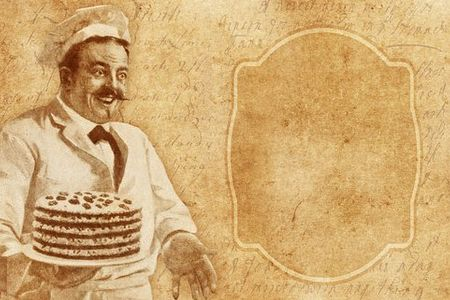
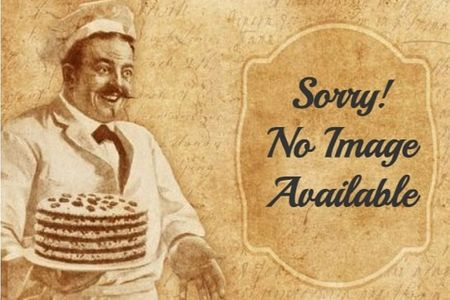
Made no image image

diff --git a/home/templates/home/delivery.html b/home/templates/home/delivery.html
@@ -10,37 +10,24 @@
 {% endblock %}
 
 {% block content %}
-    <div class="container delivery-container">
+    <div class="container mt-5">
         <div class="row">
-            <div class="col4 offset-4">
-                <div class="text-center" >
-                <h5>Sorry<br>
-                    No Image<br>
-                    Available</h5>     
-                </div>          
+            <div class="col-6">
+                <div id="delivery">
+                    <div class="row">
+                        <div class="col-6 offset-6 text-center">
+                            <h1 class="playball mt-5 ml-1 pt-4">
+                                <strong>
+                                Sorry!<br>
+                                No Image<br>
+                                Available</strong></h1>
+                        </div>                       
+                    </div>
+                </div>
             </div>
         </div>
     </div>
-        <!--title-->
-        <!--<div class="row">
-            <div class="col text-center mt-1">
-                <h2 class="playball">Delivery Charges</h2>
-                <hr class="gold50 mb-1">
-            </div>
-        </div>
-        <div class="row">
-            <div class="col">
-                <h3>All deliveries in the Dublin Greater city area are 10 Euro.<br>
-                   All deliveries on orders over 50 Euro are free.</h3>
-                  
-            </div>    
-        </div>-->
-        <div class="row">
-            <div class="col">
-                
-            </div>
-        </div>
-    </div>
+
 {% endblock %}
 
 {% block postloadjs %}

diff --git a/static/css/base.css b/static/css/base.css
@@ -1,10 +1,9 @@
 /*----------------------General----------------------*/
 
-.delivery-container {
-    background: url('/media/no-image2.jpg') no-repeat center center fixed;
-    background-size: contain;
-    width: 450px;
+#delivery {
+    background: url('/media/no-image2.jpg');
     height: 300px;
+    width: 100%;
     font-family: 'Playball';
 }
 

diff --git a/home/views.py b/home/views.py
@@ -21,6 +21,12 @@ def all(request):
     return render(request, 'home/all.html')
 
 
+def delivery(request):
+    """ A view to return the delivery page """
+
+    return render(request, 'home/delivery.html')
+
+
 def resize(request):
     """ A view to return the resize image instructions page """
 

diff --git a/home/urls.py b/home/urls.py
@@ -8,4 +8,5 @@ urlpatterns = [
     path('home/', views.home, name='home'),
     path('all/', views.all, name='all'),
     path('resize/', views.resize, name='resize'),
+    path('delivery/', views.delivery, name='delivery'),
 ]

diff --git a/README.md b/README.md
@@ -272,7 +272,7 @@ Please see admin testing for further details.
 This Allauth function allows users to sign up and log in using an existing third party account such as Google and Facebook. This would make encouraging users to sign up easier as they are just a click away and don't have to do any more. For the site owners apart from having more user sign ups this opens up hugh areas in terms of information and marketing.
 
 ### Social Media Share Icons
-In terms of brand awarness through social media social media share icons would be most advantagous.
+In terms of brand awareness through social media social media share icons would be most advantagous.
 
 
 ## Information Architecture
@@ -339,5 +339,47 @@ In terms of brand awarness through social media social media share icons would b
 - [CSS3](https://en.wikipedia.org/wiki/Cascading_Style_Sheets)
 - [JAVASCRIPT](https://en.wikipedia.org/wiki/JavaScript)
 - [PYTHON](https://en.wikipedia.org/wiki/Python_(programming_language))
-- [JINJA](https://en.wikipedia.org/wiki/Jinja_(template_engine))
+- [djangotemplatelanguage](
+  https://docs.djangoproject.com/en/3.2reftemplateslanguage/))
+
+## Frameworks, Databases, Libraries & Programs Used
+
+1. [Bootstrap:](https://getbootstrap.com/docs/4.6/getting-started/introduction/)
+   - Bootstrap with it's grid-based format was used to create the overall framework for the site This included the primary responsiveness
+     and overall styling of the website. Also specific 
+     Bootstrap features, which include the "Select", 
+     the "Navbar" and "Sidenav", "Modals", "Tooltipped" and "Datepickers", were used in the site.
+1. [Django:](https://www.djangoproject.com/)
+   - Django the high-level Python Web framework was used to build the app.
+1. [SQLight:](https://www.sqlite.org/index.html)
+   - SQLight came with Django and was used as the database for development.
+1. [PostgreSQL:](https://www.postgresql.org/)
+   - PostgreSQL was added with Heroku and was used as the database for production.
+1. [Pymongo:](https://pypi.org/project/pymongo/)
+   - Pymongo was used for interacting with MongoDB database from the app.
+1. [Font Awesome:](https://fontawesome.com/)
+   - Font Awesome was used throughout the website for the icons.
+1. [jQuery:](https://jquery.com/)
+   - jQuery was used along with Javascript through-out the site for front-end functionality and to initialize some Bootstrap features.
+1. [Git](https://git-scm.com/)
+   - Git was used for version control by utilizing the Gitpod terminal to commit to Git and Push to GitHub.
+1. [GitHub:](https://github.com/)
+   - GitHub is used to store the projects code after being pushed from Git.
+1. [Balsamiq:](https://balsamiq.com/)
+   - Balsamiq was used to create the [wireframes](https://github.com/johnston9/MS3-Shot-Caller) during the design process.
+1. [Freeformatter](https://www.freeformatter.com/html-formatter.html)
+   - Freeformatter was used to tidy up the final code.
+1. [Gauger](https://gauger.io/fonticon/)
+   - Gauger was used to create the favicon icon.
+1. [Am-I-Responsive](http://ami.responsivedesign.is/):
+   - Am I Responsive was used to test the site's responsive sizings and to generate responsive sizing images.
+1. [GitHub Wiki TOC generator:](http://ecotrust-canada.github.io/markdown-toc/)
+   - GitHub Wiki TOC generator was used to create the Table of Contents.
+1. [dbdiagram.io](https://dbdiagram.io/home)
+   - dbdiagram.io was used to create the Entity-Relationship Diagram.
+
+[Back to Table of Content](#table-of-content)
+
+
+
 
